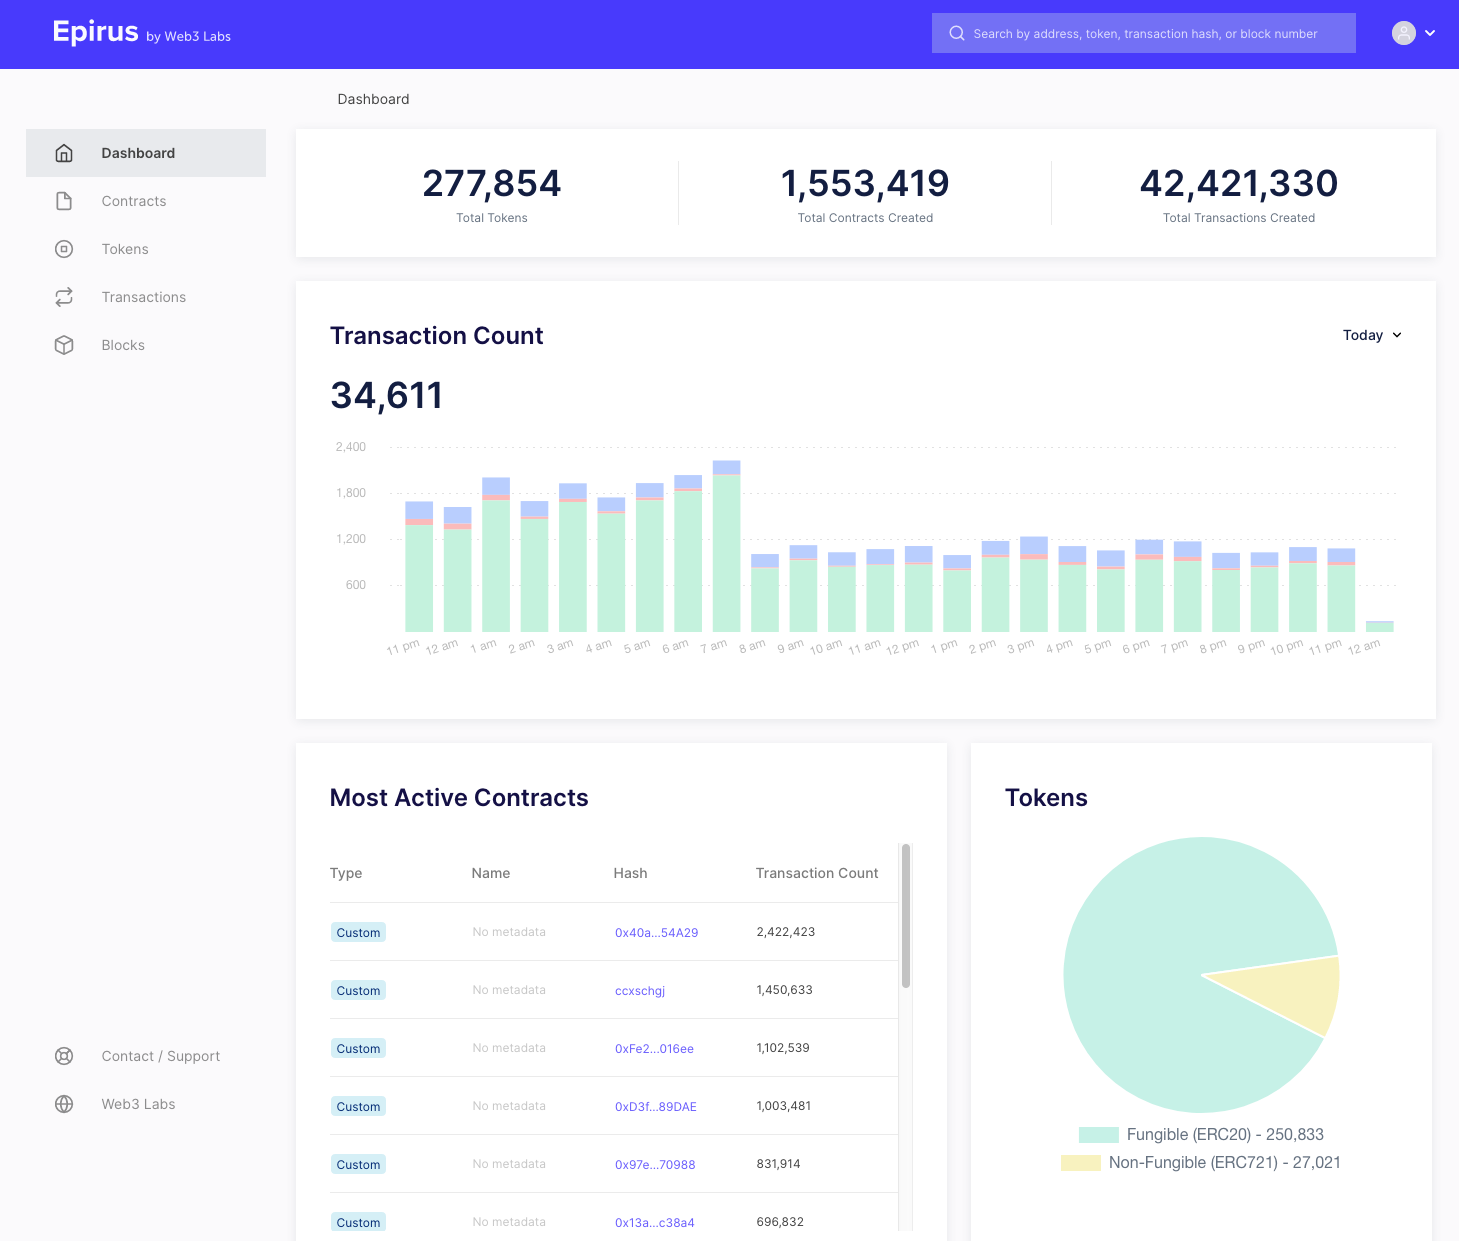
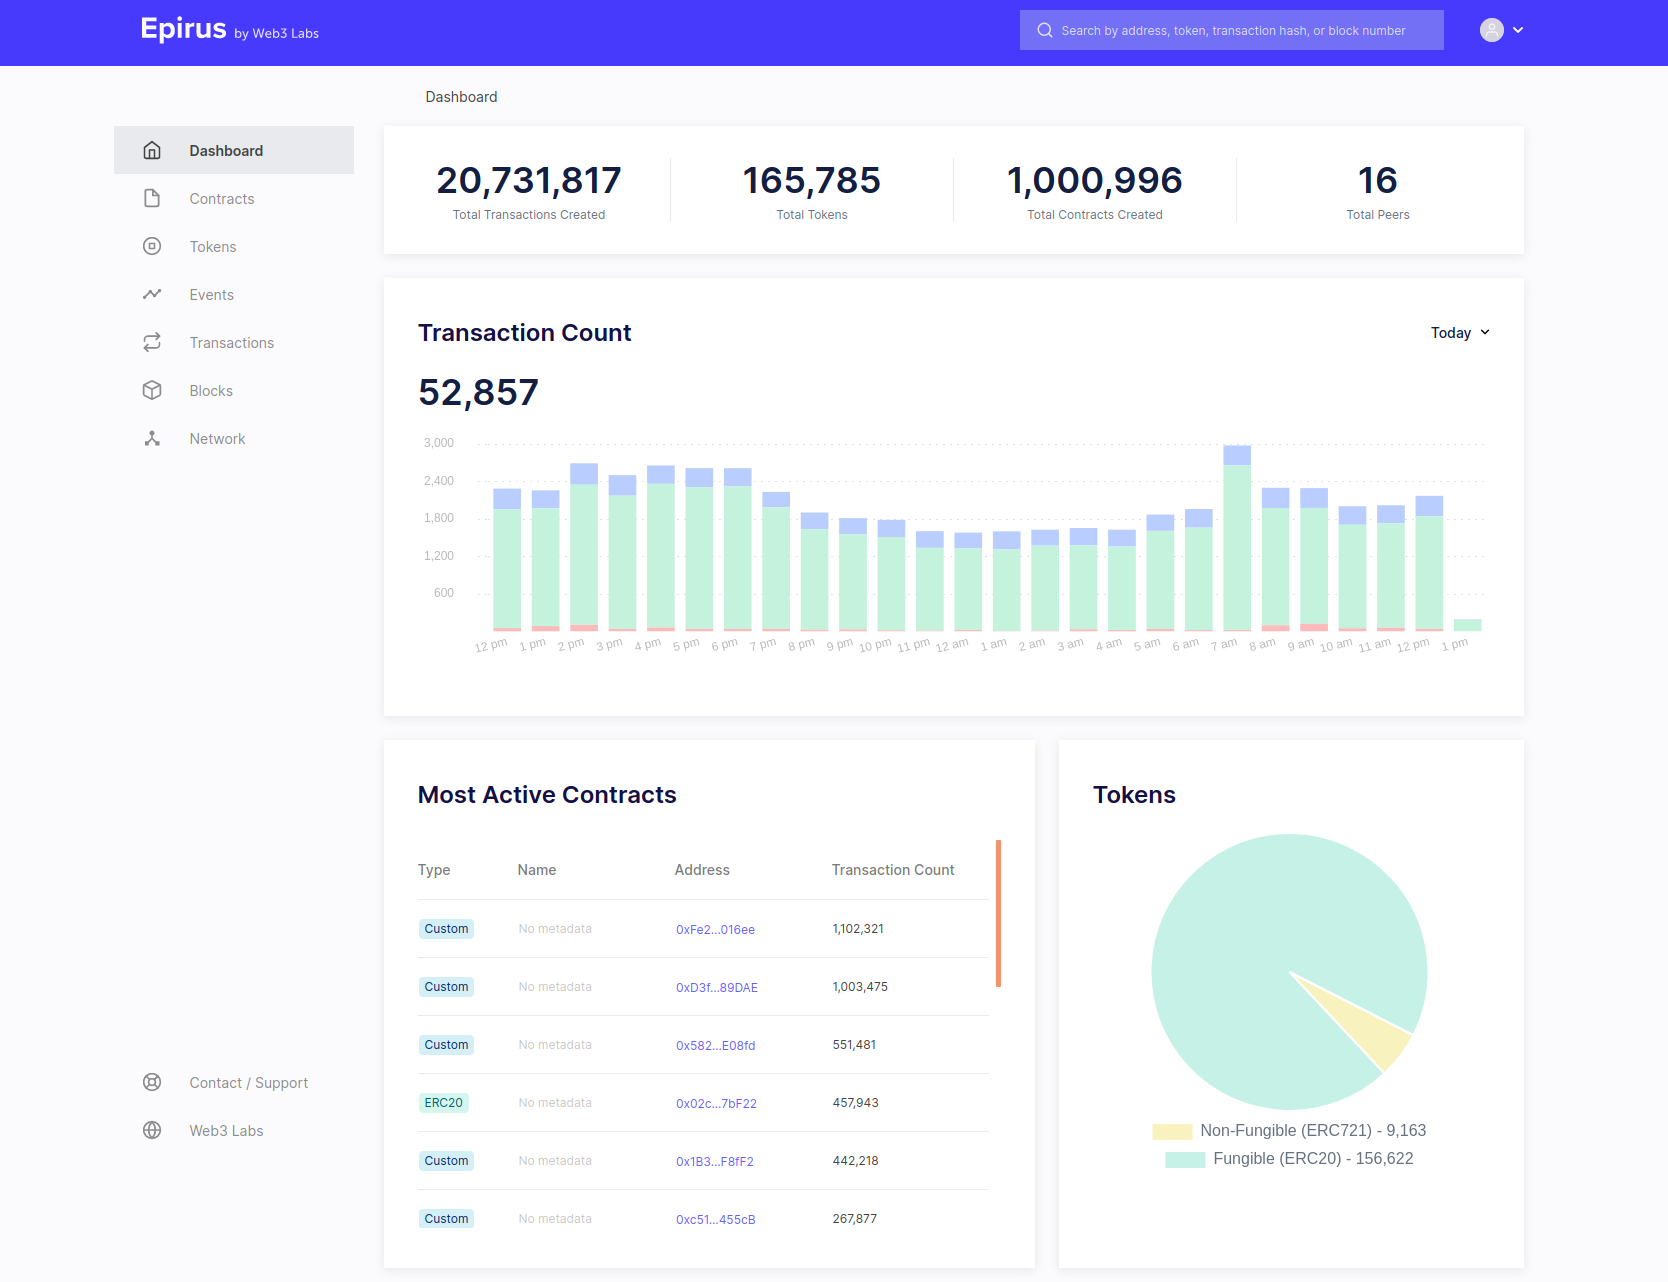
add peers summary

diff --git a/docs/features.md b/docs/features.md
@@ -6,7 +6,7 @@ Epirus provides an intuitivie user experieince, driven by the menu on the left-h
 
 The Epirus dashboard provides a summary of key metrics of the blockchain contracts, including:
 
-- Total transctions and token contracts
+- Total transctions, token contracts and peers
 - Graphical transaction count broken down by transaction type (contract creation, contract transaction, currency transfer)
 - Most active contracts
 - Fungible (ERC20) versus non-fungible token contracts (ERC721)
@@ -105,3 +105,9 @@ The filters provided also allow you to view subsets of the available data, such 
 displaying contract creation transactions or fungible tokens in the Tokens view.
 
 ![Filter by token type](img/filtering_tokens.png)
+
+## Peers
+
+The peers view provides insights into the peers that your node is connected to. This is usefull if you want to check that you are successfully to a wider network.
+
+![Peers dasboard](img/peers.png)
